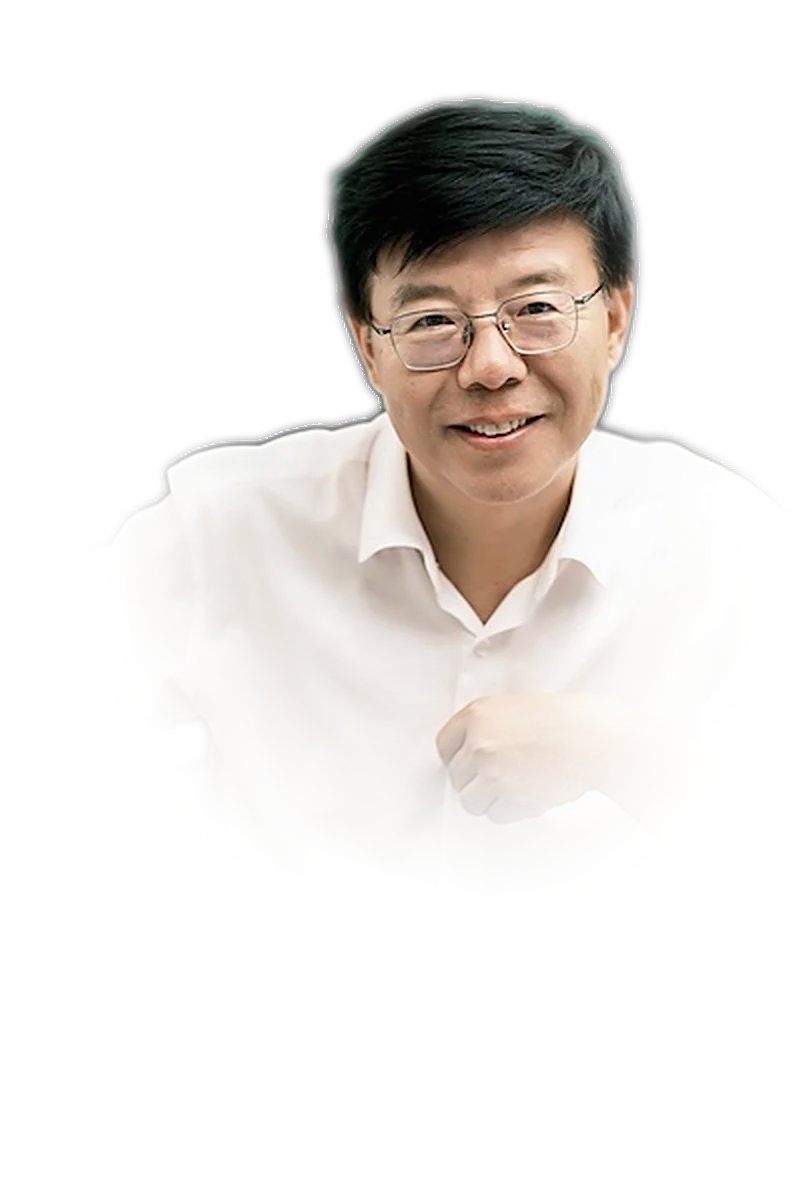
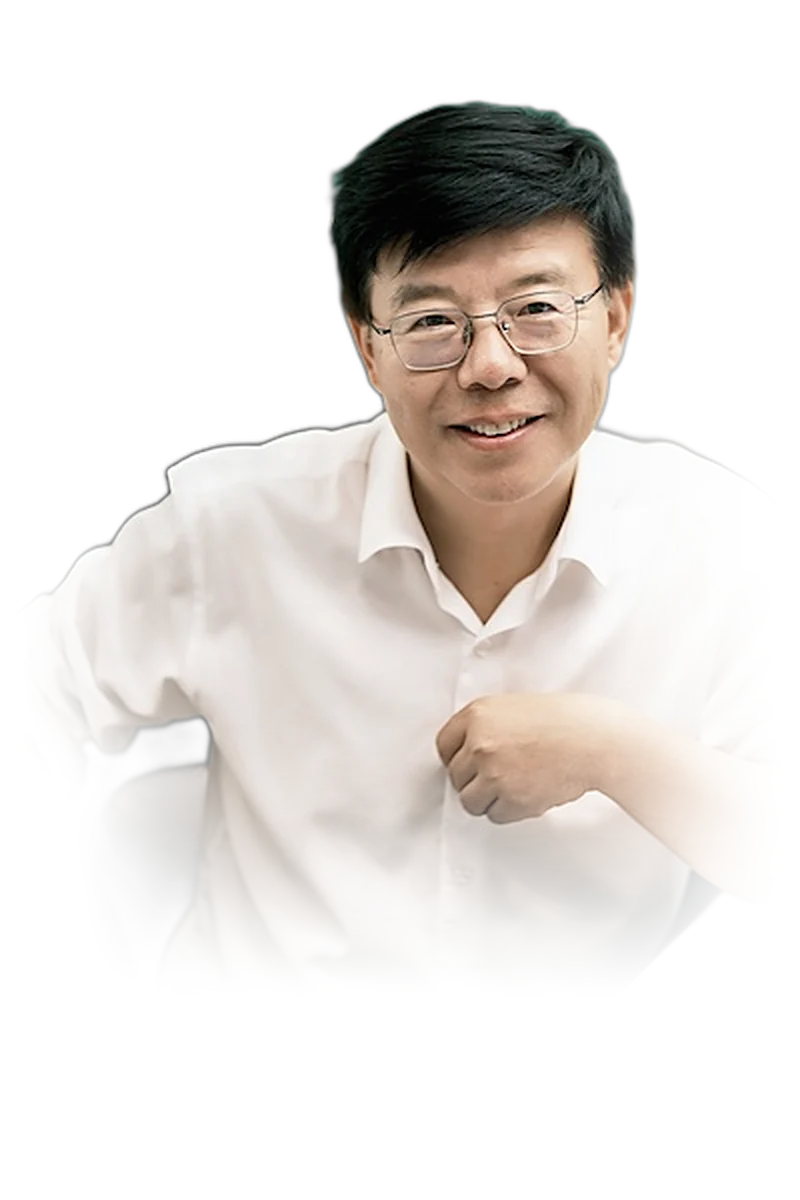
Portrait in Yau style: full cutout, halo rings and glow
Claude-Session: https://claude.ai/code/session_011w6n75HDgbTEdr3jE4t64F

diff --git a/index.html b/index.html
@@ -75,8 +75,14 @@ h2 em{font-style:normal;color:var(--jade)}
 /* portrait */
 .portrait{display:grid;grid-template-columns:1.05fr 1fr;align-items:center;gap:clamp(30px,6vw,100px);padding-top:clamp(30px,6vh,70px);min-height:100vh}
 .pframe{position:relative;aspect-ratio:2/3;max-height:90vh;width:100%;max-width:560px;justify-self:center}
-.pframe img{position:relative;z-index:2;width:100%;height:100%;object-fit:contain;display:block;will-change:transform}
-#phyllo{position:absolute;z-index:1;left:50%;top:36%;width:150%;aspect-ratio:1;transform:translate(-50%,-50%);pointer-events:none}
+.pframe img{position:relative;z-index:3;width:100%;height:100%;object-fit:contain;display:block;filter:drop-shadow(0 0 40px rgba(111,214,180,.12));will-change:transform}
+#phyllo{position:absolute;z-index:1;left:50%;top:34%;width:130%;aspect-ratio:1;transform:translate(-50%,-50%);pointer-events:none;opacity:.55}
+.halo{position:absolute;z-index:2;left:50%;top:34%;width:120%;aspect-ratio:1;transform:translate(-50%,-50%);pointer-events:none}
+.halo circle,.halo ellipse{fill:none;stroke:var(--jade);stroke-width:.6}
+.halo .spin{transform-origin:200px 200px;animation:spin 90s linear infinite}
+.halo .spin2{transform-origin:200px 200px;animation:spin 140s linear infinite reverse}
+@keyframes spin{to{transform:rotate(360deg)}}
+.glow{position:absolute;z-index:0;left:50%;top:30%;width:90%;aspect-ratio:1;transform:translate(-50%,-50%);background:radial-gradient(circle,rgba(111,214,180,.22),rgba(111,214,180,.05) 45%,transparent 70%);filter:blur(10px)}
 .ptext h2{margin-bottom:34px;line-height:1.5}
 .ptext p{color:#b4c4bd;font-size:16px;margin-bottom:18px;max-width:30em}
 .aff{margin:30px 0 0;border-top:1px solid var(--line)}
@@ -209,7 +215,12 @@ footer a{color:var(--jade)}
 
 <section class="portrait" id="man">
   <div class="pframe reveal">
+    <div class="glow"></div>
     <canvas id="phyllo" aria-hidden="true"></canvas>
+    <svg class="halo" viewBox="0 0 400 400" aria-hidden="true">
+      <g class="spin" opacity=".35"><circle cx="200" cy="200" r="150"/><ellipse cx="200" cy="200" rx="150" ry="52"/><ellipse cx="200" cy="200" rx="52" ry="150"/></g>
+      <g class="spin2" opacity=".18"><circle cx="200" cy="200" r="182" stroke-dasharray="2 6"/><ellipse cx="200" cy="200" rx="182" ry="100" transform="rotate(35 200 200)"/><ellipse cx="200" cy="200" rx="182" ry="100" transform="rotate(-35 200 200)"/></g>
+    </svg>
     <img id="pimg" src="assets/wu.webp" alt="邬荣领教授肖像" loading="lazy" width="800" height="1200">
   </div>
   <div class="ptext reveal">
@@ -417,9 +428,6 @@ const COLORS = [[111,214,180],[127,195,230],[232,184,109]];
       ctx.fillStyle = `rgba(111,214,180,${(.10 + .35*(1 - k))*(.6 + .4*pulse)})`;
       ctx.beginPath(); ctx.arc(x, y, .8 + 2.6*k, 0, 7); ctx.fill();
     }
-    const g = ctx.createRadialGradient(cx, cy, 0, cx, cy, R*.7);
-    g.addColorStop(0, 'rgba(111,214,180,.16)'); g.addColorStop(1, 'rgba(111,214,180,0)');
-    ctx.fillStyle = g; ctx.fillRect(0, 0, W, H);
   })(0);
   if (!reduce) addEventListener('scroll', () => { const r = sec.getBoundingClientRect(); const k = (r.top + r.height/2 - innerHeight/2)/innerHeight; img.style.transform = `translateY(${k*-36}px)`; }, { passive: true });
 })();
